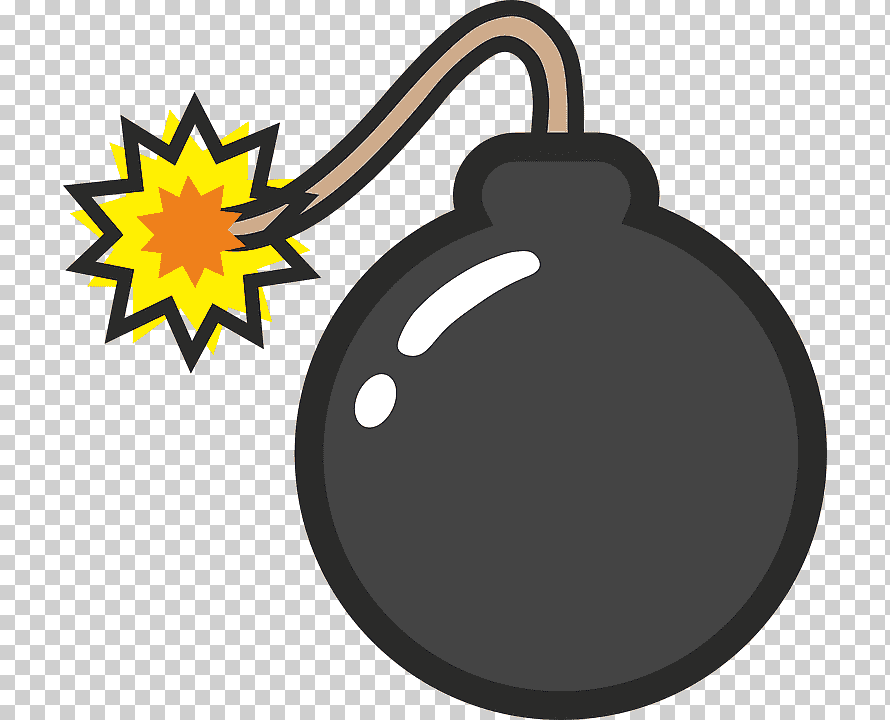
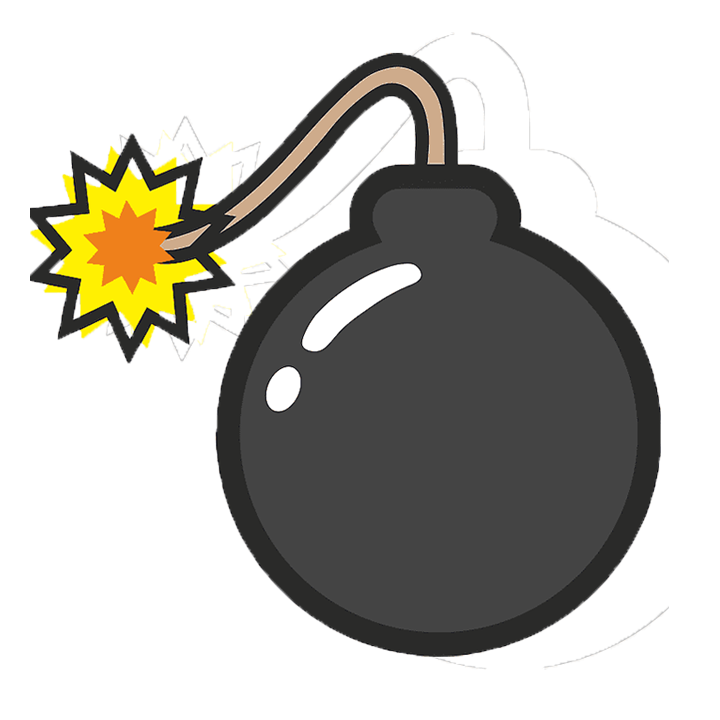
added smile images. View: added bomb images, method renderFinalScreen, methods for drawing flag and image. Controller: update, startTimer, stopTimer, onGameOver, handlers methods. Added util func

diff --git a/src/js/View.js b/src/js/View.js
@@ -1,5 +1,11 @@
 import smileURL from '../assets/smile.png'
+import smileWURL from '../assets/winner.png'
+import smileLURL from '../assets/looser.png'
+import bombURL from '../assets/bomb.png'
+import explosionURL from '../assets/explosion.png'
+import flagURL from '../assets/flag.png'
 
+import {getDisplayValue} from './utils'
 
 export default class View {
     
@@ -33,6 +39,15 @@ export default class View {
         this.smileImgX = this.panelWidth / 2 - this.smileImgSize / 2
         this.smileImgY = this.panelHeight / 2 - this.smileImgSize / 2
 
+        this.bombImg = new Image()
+        this.bombImg.src = bombURL
+
+        this.explosionImg = new Image()
+        this.explosionImg.src = explosionURL
+
+        this.flagImg = new Image()
+        this.flagImg.src = flagURL
+
         this.padding = 15
 
         this.minesWidth = 80
@@ -43,6 +58,8 @@ export default class View {
         this.timePanelX = this.panelWidth - this.minesWidth - this.padding
         this.timePanelY = this.padding * 2
 
+        this.playfieldY = this.panelHeight
+
         
         this.canv = document.createElement('canvas')
         this.canv.width = this.width
@@ -51,11 +68,8 @@ export default class View {
 
         this.element.append(this.canv)
 
-        this.playfieldY = this.panelHeight
-
-
-
         this.render(this.state)
+
     }
 
     clearCanv() {
@@ -63,7 +77,7 @@ export default class View {
         this.ctx.fillRect(0, 0, this.width, this.height)
     }
 
-    renderPanel() {
+    renderPanel(state) {
         // Background
         this.ctx.fillStyle = '#c1e7ff'
         this.ctx.fillRect(0,0,this.panelWidth, this.panelHeight)
@@ -74,28 +88,119 @@ export default class View {
         this.ctx.lineTo(this.panelWidth, this.panelHeight)
         this.ctx.stroke()
 
+        this.renderTimeAndMinesPanels(state)
+
+        //smile
+        this.smileImg.onload = () => {
+            this.ctx.drawImage(this.smileImg, this.smileImgX, this.smileImgY, this.smileImgSize, this.smileImgSize)
+        }
+
+
+    }
+
+    renderFinalScreen({playfield, gameOver}) {
+        switch(gameOver) {
+            case 'win':
+                this.smileImg.src = smileWURL
+                this.smileImg.onload = () => {
+                    this.ctx.drawImage(this.smileImg, this.smileImgX, this.smileImgY, this.smileImgSize, this.smileImgSize)
+                }
+                for (let y = 0; y < playfield.length; y++) {
+                    for (let x = 0; x < playfield[y].length; x++) {
+                        if(playfield[y][x] === 9) {
+                            this.renderCell(
+                                x * this.cellSize,
+                                y * this.cellSize + this.playfieldY,
+                                this.cellSize,
+                                this.cellSize,
+                                null,
+                                false,
+                                null
+                            )
+                            this.drawImage(
+                                this.bombImg,
+                                x * this.cellSize,
+                                y * this.cellSize + this.playfieldY,
+                                this.cellSize,
+                                this.cellSize
+                                )
+                        }
+                    }
+                }
+                break
+
+
+
+            case 'lose':
+                this.smileImg.src = smileLURL
+                this.smileImg.onload = () => {
+                    this.ctx.drawImage(this.smileImg, this.smileImgX, this.smileImgY, this.smileImgSize, this.smileImgSize)
+                }
+                for (let y = 0; y < playfield.length; y++) {
+                    for (let x = 0; x < playfield[y].length; x++) {
+                        if(playfield[y][x] != 9) {
+                            this.renderCell(
+                                this.cellSize * x, 
+                                this.cellSize * y + this.playfieldY, 
+                                this.cellSize, 
+                                this.cellSize, 
+                                playfield[y][x], 
+                                true, 
+                                View.colors[playfield[y][x]]
+                            )
+                        }
+                        if(playfield[y][x] == 0) {
+                            this.renderCell(
+                                this.cellSize * x, 
+                                this.cellSize * y + this.playfieldY, 
+                                this.cellSize, 
+                                this.cellSize, 
+                                '', 
+                                true, 
+                                View.colors[playfield[y][x]]
+                            )
+                        }
+                        if(playfield[y][x] === 9) {
+                            this.renderCell(
+                                x * this.cellSize,
+                                y * this.cellSize + this.playfieldY,
+                                this.cellSize,
+                                this.cellSize,
+                                null,
+                                false,
+                                null
+                            )
+                            this.drawImage(
+                                this.bombImg,
+                                x * this.cellSize,
+                                y * this.cellSize + this.playfieldY,
+                                this.cellSize,
+                                this.cellSize
+                                )
+                        }
+                    }
+                }
+        }
+    }
+
+    renderTimeAndMinesPanels(state) {
         //time and mines panels
         this.ctx.fillStyle = 'black'
         this.ctx.fillRect(this.minesPanelX, this.minesPanelY, this.minesWidth, this.minesHeight)
         this.ctx.fillRect(this.timePanelX, this.timePanelY, this.minesWidth, this.minesHeight)
-
-        //Smile :)
-        this.smileImg.onload = () => {
-            this.ctx.drawImage(this.smileImg, this.smileImgX, this.smileImgY, this.smileImgSize, this.smileImgSize)
-        }
 
         //mines and time counters
         this.ctx.textAlign = 'center'
         this.ctx.textBaseline = 'middle'
         this.ctx.fillStyle = 'red'
         this.ctx.font = '36px serif'
-        this.ctx.fillText('000', this.minesPanelX + this.minesWidth / 2, this.minesPanelY + this.minesHeight / 1.8)
-        this.ctx.fillText('000', this.timePanelX + this.minesWidth / 2, this.timePanelY + this.minesHeight / 1.8)
+        this.ctx.fillText(getDisplayValue(state.mines) , this.minesPanelX + this.minesWidth / 2, this.minesPanelY + this.minesHeight / 1.8)
+        this.ctx.fillText(getDisplayValue(state.time), this.timePanelX + this.minesWidth / 2, this.timePanelY + this.minesHeight / 1.8)
     }
 
     render(state) {
         this.clearCanv()
-        this.renderPanel()
+        this.renderPanel(state)
         this.renderCells(state)
     }
 
@@ -104,8 +209,11 @@ export default class View {
         for (let y = 0; y < playfield.length; y++) {
             for (let x = 0; x < playfield[y].length; x++) {
                 if(typeof playfield[y][x] === 'string') {
-                    if(playfield[y][x] === '0' || playfield[y][x] === '9') {
+                    if(playfield[y][x] === '0' ) {
                         this.renderCell(this.cellSize * x, this.cellSize * y + this.playfieldY, this.cellSize, this.cellSize, '', true)
+                    } else if(playfield[y][x] === '9') {
+                        this.renderCell(this.cellSize * x, this.cellSize * y + this.playfieldY, this.cellSize, this.cellSize, '', true)
+                        this.drawImage(this.explosionImg, this.cellSize * x, this.cellSize * y + this.playfieldY, this.cellSize, this.cellSize)
                     } else {
                         this.renderCell(this.cellSize * x, this.cellSize * y + this.playfieldY, this.cellSize, this.cellSize, playfield[y][x], true, View.colors[playfield[y][x]])
                     }
@@ -130,5 +238,13 @@ export default class View {
             this.ctx.font = '20px bold'
             this.ctx.fillText(content, x + width / 2, y + height / 2)
         }
+    }
+
+    drawImage(img, x, y, w, h) {
+        this.ctx.drawImage(img, x, y, w, h)
+    }
+
+    drawFlag(x, y) {
+        this.drawImage(this.flagImg, this.cellSize * x, this.cellSize * y + this.playfieldY, this.cellSize, this.cellSize)
     }
 } 

diff --git a/src/js/Controller.js b/src/js/Controller.js
@@ -16,32 +16,77 @@ export default class Controller {
         })
 
         this.intervalId = null
-        this.isPlaying = false
+        this.timerId = null
+        this.isPlaying = true
+        this.gameStarted = false
 
         this.view.canv.addEventListener('click', this.clickHandler.bind(this))
-        setInterval(() => {
-            this.view.renderCells(this.game.getState())
-        })
+        this.view.canv.addEventListener('contextmenu', this.contextHandler.bind(this))
     }
 
+    update() {
+        const state = this.game.getState()
+
+        this.view.renderTimeAndMinesPanels(state)
+        this.view.renderCells(state)
+
+        if(state.gameOver) {
+            this.onGameOver()
+        }
+    }
         
     startGame(x,y) {
         this.game.setMines(x,y)
         this.game.fillPlayfield()
-        this.isPlaying = true
+        this.gameStarted = true
+        this.startTimer()
         this.game.openCell(y,x)
     }
 
+    startTimer() {
+        this.intervalId = setInterval(() => {this.update()}, 0)
+        this.timerId = setInterval(() => {
+            if(this.game.gameTime === 999) {
+                clearInterval(this.timerId)
+                return
+            }
+            this.game.gameTime++
+        }, 1000)
+    }
+
+    stopTimer() {
+        clearInterval(this.timerId)
+        clearInterval(this.intervalId)
+    }
+
+    onGameOver() {
+        this.isPlaying = false
+        this.stopTimer()
+        console.log(this.view);
+        this.view.renderFinalScreen(this.game.getState())
+    }
 
     clickHandler(e)  {
-        const x =  Math.floor(e.offsetX / this.view.cellSize)
-        const y =  Math.floor((e.offsetY - this.view.panelHeight) / this.view.cellSize)
-        if(y < 0) return
-        if(!this.isPlaying) {
-            this.startGame(x,y)
-            return
+        if(this.isPlaying) {
+            const x =  Math.floor(e.offsetX / this.view.cellSize)
+            const y =  Math.floor((e.offsetY - this.view.panelHeight) / this.view.cellSize)
+            if(y < 0) return
+            if(!this.gameStarted) {
+                this.startGame(x,y)
+                return
+            }
+            this.game.openCell(y, x)
         }
-        this.game.openCell(y, x)
+    }
+
+    contextHandler(e) {
+        e.preventDefault()
+        if(this.isPlaying) {
+            const x =  Math.floor(e.offsetX / this.view.cellSize)
+            const y =  Math.floor((e.offsetY - this.view.panelHeight) / this.view.cellSize)
+            if(y < 0) return
+            this.view.drawFlag(x, y)
+        }
     }
 }
 

diff --git a/src/js/Game.js b/src/js/Game.js
@@ -12,6 +12,7 @@ export default class Game {
     
 
     isGameOver = null
+    gameTime = 0
     
     constructor(difficult) {
         this.difficult = typeof difficult === 'number' ? Game.difficults[difficult] : difficult
@@ -93,13 +94,11 @@ export default class Game {
         }
         if(this.playfield[y][x] === 9) {
             this.isGameOver = 'lose'
-            console.log('looser');
         }
         this.playfield[y][x] = this.playfield[y][x].toString()
 
         if(this.checkWinnning()) {
             this.isGameOver = 'win'
-            console.log('winner');
         }
         
     }
@@ -120,7 +119,8 @@ export default class Game {
         return {
             gameOver: this.isGameOver,
             playfield: this.playfield,
-            mines: this.minesLeft
+            mines: this.minesLeft,
+            time: this.gameTime
         }
     }
 }

diff --git a/src/js/Popup.js b/src/js/Popup.js
@@ -31,7 +31,7 @@ export default class Popup {
                     </div>
                     <div class="form__item">
                         <label for="mines" class="input__label">Мины:</label>
-                        <input type="number" min="1" value="10" name="mines" id="mines" class="popup__input">
+                        <input type="number" max="999" min="1" value="10" name="mines" id="mines" class="popup__input">
                     </div>
                     <div class="form__actions">
                         <button  class="btn--ok btn form__btn">OK</button>

diff --git a/src/js/utils.js b/src/js/utils.js
@@ -1,3 +1,17 @@
 export function rnd(min, max) {
     return Math.round(Math.random() * (max - min) + min)
 }
+
+export function getDisplayValue(num) {
+    const number = Math.abs(num)
+    let sign = ''
+    if(num < 0) sign = '-'
+    switch(number.toString().length) {
+        case 1:
+            return `${sign}00${number}`
+        case 2:
+            return `${sign}0${number}`
+        case 3:
+            return `${sign}${number}`
+    }
+}

diff --git a/src/index.js b/src/index.js
@@ -3,4 +3,4 @@ import Controller from './js/Controller'
 import "./scss/main.scss"
 
 const ROOT_ELEMENT = document.getElementById('root')
-new Controller(ROOT_ELEMENT)
+window.a = new Controller(ROOT_ELEMENT)

diff --git a/readme.md b/readme.md
@@ -1,0 +1,6 @@
+# Todo: 
+* restart game method
+* flags and left mines
+* difficult settings
+* custom difficult settings
+* split cases 'win' and 'lose' on different methods is renderFinalScreen method
